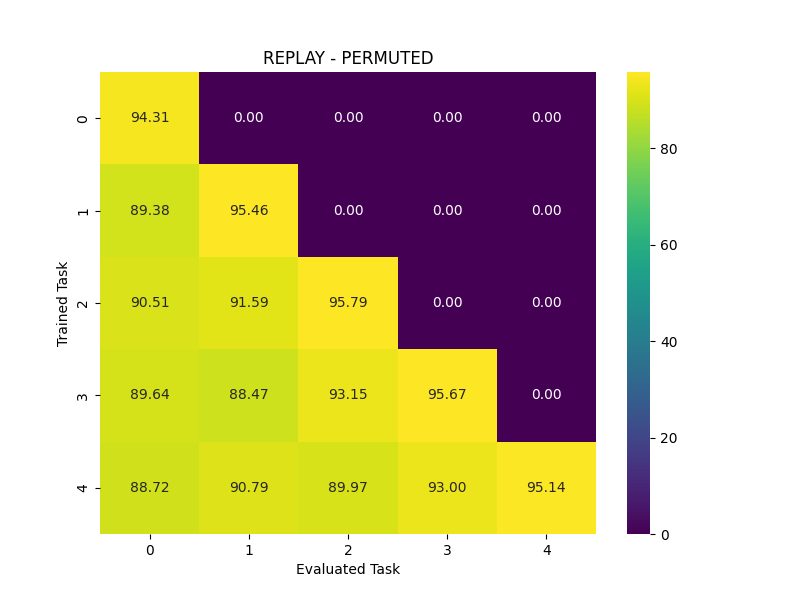
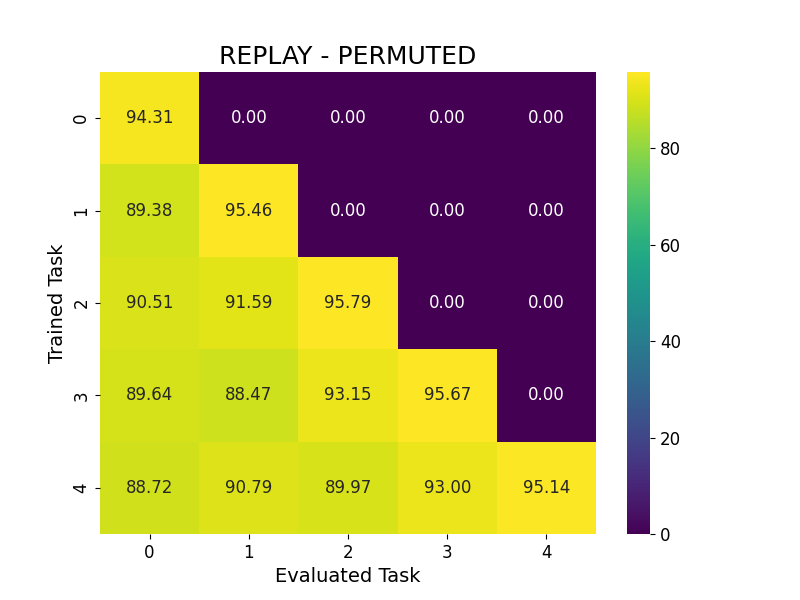
Updated Visualizations

diff --git a/visualization/metric_plots.py b/visualization/metric_plots.py
@@ -1,6 +1,20 @@
 import os
 import pandas as pd
 import matplotlib.pyplot as plt
+import numpy as np
+
+METHOD_COLORS = {
+    "baseline": "#E74C3C",
+    "replay": "#3498DB",
+    "ewc": "#2ECC71"
+}
+
+plt.rcParams.update({
+    "font.size": 12,
+    "axes.titlesize": 18,
+    "axes.labelsize": 14,
+    "legend.fontsize": 12
+})
 
 
 def plot_metric_comparison():
@@ -23,79 +37,90 @@ def plot_metric_comparison():
         "FWT"
     ]
 
+    output_dir = "visualizations/metrics"
+    os.makedirs(output_dir, exist_ok=True)
+
     for benchmark in benchmarks:
 
-        metric_values = {
-            metric: []
-            for metric in metrics
-        }
+        df_all = []
 
         for method in methods:
 
-            metrics_path = (
-
+            metrics_file = (
                 f"results/{method}/"
                 f"{benchmark}/metrics.csv"
             )
 
-            df = pd.read_csv(
-                metrics_path
-            )
+            df = pd.read_csv(metrics_file)
 
-            for metric in metrics:
+            df["Method"] = method
 
-                metric_values[
-                    metric
-                ].append(df[metric][0])
+            df_all.append(df)
 
-        # ==================================
-        # PLOT
-        # ==================================
+        metrics_df = pd.concat(df_all)
 
-        x = range(len(methods))
-
+        x = np.arange(len(methods))
         width = 0.25
 
-        plt.figure(figsize=(10, 6))
+        fig, ax = plt.subplots(
+            figsize=(12, 7)
+        )
 
-        for i, metric in enumerate(metrics):
+        for idx, metric in enumerate(metrics):
 
-            plt.bar(
+            values = metrics_df[metric]
 
-                [p + width * i for p in x],
-
-                metric_values[metric],
-
-                width=width,
-
+            bars = ax.bar(
+                x + idx * width,
+                values,
+                width,
                 label=metric
             )
 
-        plt.xticks(
+            for bar in bars:
 
-            [p + width for p in x],
+                height = bar.get_height()
 
-            methods
+                ax.annotate(
+                    f"{height:.2f}",
+                    xy=(
+                        bar.get_x() +
+                        bar.get_width() / 2,
+                        height
+                    ),
+                    xytext=(0, 3),
+                    textcoords="offset points",
+                    ha='center',
+                    fontsize=9
+                )
+
+        ax.set_title(
+            f"{benchmark.upper()} Dataset\nACC / BWT / FWT Comparison",
+            pad=20
         )
 
-        plt.ylabel("Score")
+        ax.set_ylabel("Metric Value")
 
-        plt.title(
-            f"{benchmark.upper()} "
-            f"Metric Comparison"
+        ax.set_xticks(
+            x + width
         )
 
-        plt.legend()
-
-        os.makedirs(
-            "visualizations/metrics",
-            exist_ok=True
+        ax.set_xticklabels(
+            [m.upper() for m in methods]
         )
+
+        ax.grid(
+            linestyle='--',
+            alpha=0.4
+        )
+
+        ax.legend()
+
+        plt.tight_layout()
 
         plt.savefig(
-
-            f"visualizations/metrics/"
-            f"{benchmark}_metrics.png"
+            f"{output_dir}/{benchmark}_metrics.png",
+            dpi=300
         )
 
         plt.close()

diff --git a/visualization/summary_tables.py b/visualization/summary_tables.py
@@ -1,3 +1,4 @@
+import os
 import pandas as pd
 
 
@@ -21,17 +22,16 @@ def generate_summary_table():
 
         for method in methods:
 
-            metrics_path = (
-
+            metrics_file = (
                 f"results/{method}/"
                 f"{benchmark}/metrics.csv"
             )
 
-            df = pd.read_csv(
-                metrics_path
+            metrics_df = pd.read_csv(
+                metrics_file
             )
 
-            row = {
+            rows.append({
 
                 "Benchmark":
                     benchmark,
@@ -40,27 +40,63 @@ def generate_summary_table():
                     method,
 
                 "ACC":
-                    df["ACC"][0],
+                    round(
+                        metrics_df["ACC"][0],
+                        2
+                    ),
 
                 "BWT":
-                    df["BWT"][0],
+                    round(
+                        metrics_df["BWT"][0],
+                        2
+                    ),
 
                 "FWT":
-                    df["FWT"][0]
-            }
-
-            rows.append(row)
+                    round(
+                        metrics_df["FWT"][0],
+                        2
+                    )
+            })
 
     summary_df = pd.DataFrame(rows)
 
+    os.makedirs(
+        "visualizations/tables",
+        exist_ok=True
+    )
+
     summary_df.to_csv(
-
-        "visualizations/"
-        "summary_table.csv",
-
+        "visualizations/tables/summary_table.csv",
         index=False
     )
 
-    print(
-        "\nSummary table generated."
+
+    acc_table = summary_df.pivot(
+        index="Benchmark",
+        columns="Method",
+        values="ACC"
+    )
+
+    bwt_table = summary_df.pivot(
+        index="Benchmark",
+        columns="Method",
+        values="BWT"
+    )
+
+    fwt_table = summary_df.pivot(
+        index="Benchmark",
+        columns="Method",
+        values="FWT"
+    )
+
+    acc_table.to_csv(
+        "visualizations/tables/acc_comparison_table.csv"
+    )
+
+    bwt_table.to_csv(
+        "visualizations/tables/bwt_comparison_table.csv"
+    )
+
+    fwt_table.to_csv(
+        "visualizations/tables/fwt_comparison_table.csv"
     )

diff --git a/main.py b/main.py
@@ -14,12 +14,6 @@ def main():
     # ====================================
 
     generate_all_visualizations()
-    
-    # ====================================
-    # GENERATE VISUALIZATIONS
-    # ====================================
-
-    generate_all_visualizations()
 
 
 if __name__ == "__main__":
